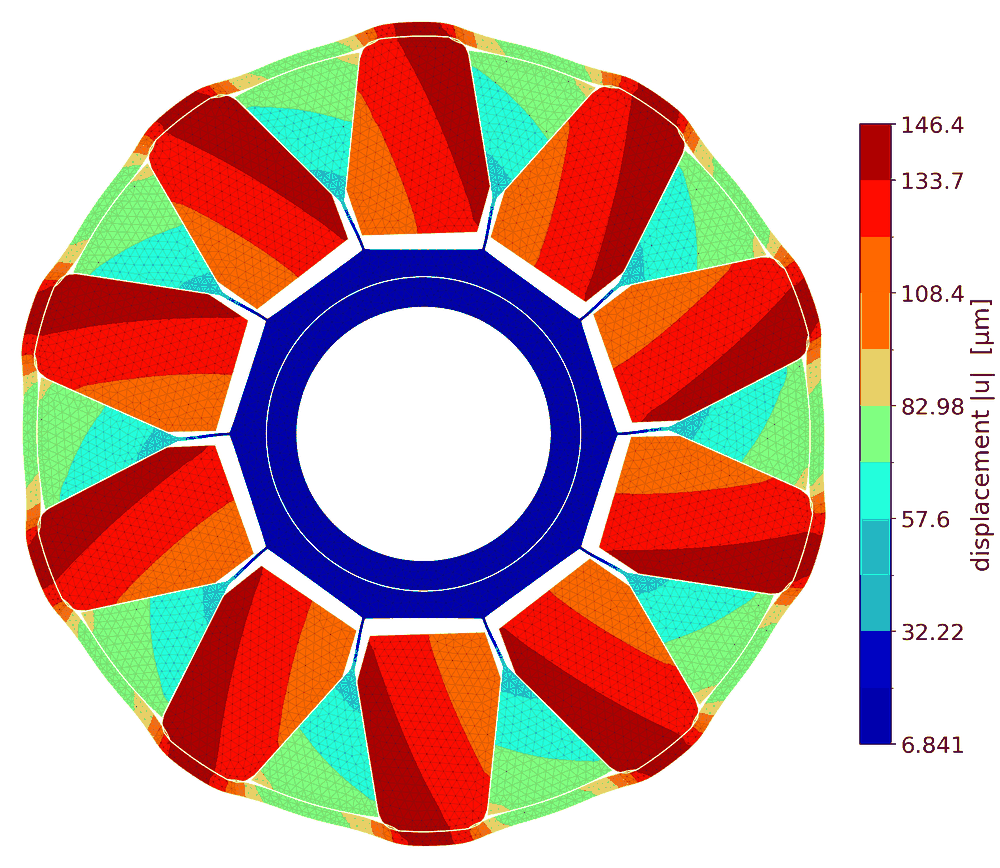
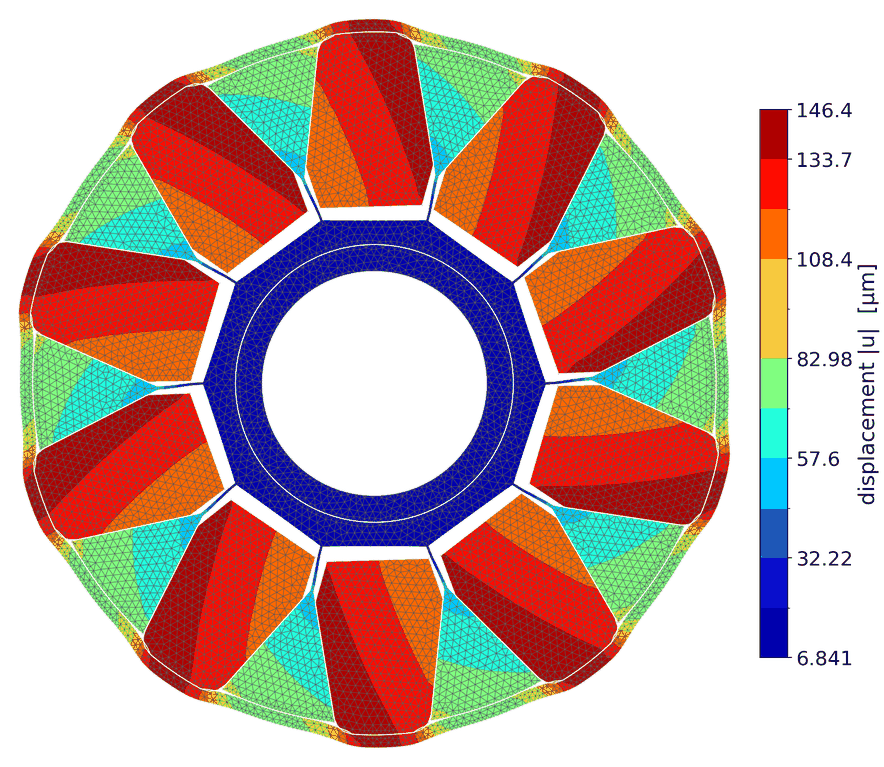
web: the landing mesh is a mesh at 1x, not a texture
The mesh went on the cards yesterday and on the live 1440-wide page it read as
a faint grey wash.  Two reasons, both about the size the picture is actually
looked at:

  * the files were 1000 px for a 442 px card, a 2.26x reduction at 1x DPR, so
    a 0.22 pt line landed on 0.44 of a pixel and averaged away.  They are 884 px
    now — exactly 2x the card — so at 1x the browser folds two source pixels
    into one and a 2 px line stays a 1 px line, while a 2x screen still gets its
    own pixels;
  * the line was near-black, and a jet field is dark at BOTH ends.  Dark blue
    around 0.4 T and dark red at the top both sit near luminance 30-40, which is
    what #1f1f1f is, so over those the ink did not draw a line, it disappeared
    into one.  It is #5a5a5a now (~90): far enough from the dark ends to be seen
    and far enough from cyan (~180) and yellow (~230) to stay a line.  One tone
    for all three — the alternative is a tone per picture and no rule.

Weight 0.5 pt at alpha 0.85, sized against one test: after the browser scales
the picture to its 442 px card at 1x, every triangle edge is still a distinct
line.  0.9 pt was legible too and started eating the field; 0.22 was the wash.

`--preview DIR` writes that 442 px view, because it is the only size at which
"mesh or smudge" can be answered, and answering it from a 1000 px render is how
this was got wrong the first time.

249 / 247 / 241 KB — palette traded, never the line: still inside the 255 KB
[…]

diff --git a/scripts/landing_images.py b/scripts/landing_images.py
@@ -52,22 +52,25 @@ solved mesh.  At the size a REPORT places a figure, its hairline (0.12 pt,
 alpha 0.35, #2b2b2b) reads as texture over the field; at ~442 px on a card it
 disappears, which is why the first live cards looked like flat colour.
 
-So the weight of that ONE call is lifted for these three pictures, and only for
-them: :func:`mesh_weight` wraps `Axes.triplot` for the duration of a build and
-substitutes :data:`MESH_LW` / :data:`MESH_ALPHA` into it.  Nothing in report.py
-is touched and nothing outside this process changes — the report still prints
-its own hairline.  The thermal map gets the lighter alpha of the two
-(:data:`MESH_ALPHA_THERMAL`): most of it is dark red, and the weight that reads
-as texture over a pale field reads as ink over that one.  `--no-mesh` draws the
-fields bare, which is how the two styles get compared.
+So that ONE call is redrawn for these three pictures, and only for them:
+:func:`mesh_weight` wraps `Axes.triplot` for the duration of a build and
+substitutes :data:`MESH_LW` / :data:`MESH_ALPHA` / :data:`MESH_COLOR` into it.
+Nothing in report.py is touched and nothing outside this process changes — the
+report still prints its own hairline.  The three are sized against ONE test:
+after the browser has scaled the picture down to its 442 px card at 1x DPR,
+every triangle edge must still be a distinct line and not a grey wash.
+`--no-mesh` draws the fields bare, and `--preview DIR` writes that 442 px view
+— the only size at which "mesh or smudge" can be answered by eye.
 
 Edges do not double on the seam: the replication merges coincident nodes, and
 `triplot` draws a triangulation's UNIQUE edge list, so the joint carries one
 line like every other interior edge.
 
-SIZE.  Each card places a picture at ~442 CSS px and the disc inside the
-1.25:1 box is height-limited to ~354 px, so 1000 device px covers a 2x screen
-with room to spare.  The palette steps down until the file clears
+SIZE.  Each card places a picture at ~442 CSS px, so the file is rendered at
+exactly twice that (:data:`CARD_PX`): a 2x screen gets its own pixels, and at
+1x the browser folds two source pixels into one, which keeps a 2 px mesh line a
+1 px mesh line.  A round 1000 px was a 2.26x reduction and put the line on 0.44
+of a pixel.  The palette steps down until the file clears
 :data:`TARGET_BYTES`; the hard ceiling is :data:`MAX_BYTES` (300 KB, the
 landing's budget, enforced by the test beside the component) and the target is
 lower on purpose, so a later tweak cannot quietly blow it.  All three are
@@ -81,6 +84,7 @@ calls none::
     python scripts/landing_images.py            # rewrite web/public/landing/*.png
     python scripts/landing_images.py --check     # redraw elsewhere and compare
     python scripts/landing_images.py --no-mesh   # the fields with no mesh over them
+    python scripts/landing_images.py --preview DIR   # also save the 442 px card view
 
 ``--check`` writes nothing into the repo: it redraws into a temporary directory
 and reports, per file, whether the bytes still match what is committed.  A
@@ -114,19 +118,32 @@ OUT_DIR = ROOT / "web" / "public" / "landing"
 MAX_BYTES = 300 * 1024
 #: What the palette search actually aims at — see SIZE above.
 TARGET_BYTES = 255 * 1024
-#: Device pixels across, for a picture placed at ~442 CSS px on a 2x screen.
-CARD_PX = 1000
+#: Device pixels across: EXACTLY twice the ~442 px the card places the picture
+#: at.  A round 1000 was a 2.26x reduction at 1x DPR and a mesh line landed on
+#: 0.44 of a pixel; at 2x the browser folds two source pixels into one, so a
+#: 2 px line stays a 1 px line and a 2x screen still gets its own pixels.
+CARD_PX = 884
+#: What the card places the picture at, and therefore what `--preview` renders
+#: for the eye that has to judge the mesh.
+PREVIEW_PX = 442
 
-#: The mesh over the field, in points and alpha — see THE MESH above.  The
-#: report's own values are 0.12 / 0.35, which is right for a figure placed on a
-#: page and invisible on a 442 px card.
-MESH_LW = 0.22
-MESH_ALPHA = 0.55
-#: The temperature map gets its own value.  Its stator is pale and its rotor is
-#: one flat dark red, so the two halves of the picture want opposite things: at
-#: the other maps' 0.55 the stator reads busy, and at 0.38 the mesh vanishes
-#: inside the rotor altogether.  0.50 is where it is legible in both.
-MESH_ALPHA_THERMAL = 0.50
+#: The mesh over the field — weight in points, alpha, colour.  The report's own
+#: values are 0.12 pt / 0.35 / #2b2b2b, which is right for a figure placed on a
+#: page.  These are sized so that every triangle edge is still a DISTINCT line
+#: after the browser has scaled the picture down to its 442 px card at 1x DPR:
+#: at 0.22 the mesh survived that reduction only as a faint texture (live,
+#: 2026-09-16), and the user asked for a mesh, not a texture.  Measured by eye
+#: on the 442 px downscales `--preview` writes.
+MESH_LW = 0.5
+MESH_ALPHA = 0.85
+MESH_COLOR = "#5a5a5a"
+#: WHY MID-GREY AND NOT NEAR-BLACK.  A jet field is dark at BOTH ends — dark
+#: blue around 0.4 T and dark red at the top both sit near luminance 30-40 —
+#: and near-black ink has that same luminance, so it does not draw a line
+#: there, it disappears into it.  #5a5a5a is ~90: far enough from the dark ends
+#: to be seen and far enough from the pale middle (cyan ~180, yellow ~230) to
+#: stay a line.  One tone for all three, because the alternative is a tone per
+#: picture and no rule.
 
 DIE, CFG, DUTY = "CIANO10 200 opt", "L155 motor", "rated 1x9 mm"
 #: The width the figures are PLACED at, in cm.  `report.map_font_pt` sizes the
@@ -138,11 +155,14 @@ PLACE_CM = 12.0
 # ── the mesh ────────────────────────────────────────────────────────────────
 
 @contextmanager
-def mesh_weight(lw: float, alpha: float, on: bool = True) -> Iterator[None]:
+def mesh_weight(lw: float, alpha: float, color: str = MESH_COLOR,
+                on: bool = True) -> Iterator[None]:
     """Draw `report._map_png`'s mesh at THIS weight, for as long as the block.
 
     That one call is ``ax.triplot(tri, color="#2b2b2b", linewidth=0.12,
-    alpha=0.35)``, and it is the only `triplot` in the builders this script
+    alpha=0.35)`` — all three of which are substituted here, because at card
+    size the weight, the opacity and the tone all have to carry.  It is the
+    only `triplot` in the builders this script
     uses — the mode gallery draws its outlines with a `LineCollection` and the
     flux lines come from `tricontour`, so wrapping `triplot` reaches the mesh
     and nothing else.  `on=False` suppresses the mesh entirely (``--no-mesh``).
@@ -158,7 +178,7 @@ def mesh_weight(lw: float, alpha: float, on: bool = True) -> Iterator[None]:
         if "linewidth" in kw and "alpha" in kw:
             if not on:
                 return []
-            kw["linewidth"], kw["alpha"] = lw, alpha
+            kw["linewidth"], kw["alpha"], kw["color"] = lw, alpha, color
         return original(self, *a, **kw)
 
     matplotlib.axes.Axes.triplot = patched          # type: ignore[assignment]
@@ -291,7 +311,7 @@ def build(mesh: bool = True) -> Dict[str, bytes]:
     P, T, node, tri = to_full(th["vertices"], th["triangles"],
                               {"t": th["temperature_per_node"]},
                               {"dom": th["domain_per_tri"]})
-    with mesh_weight(MESH_LW, MESH_ALPHA_THERMAL, on=mesh):
+    with mesh_weight(MESH_LW, MESH_ALPHA, on=mesh):
         png = report._thermal_map({"field": {
             "vertices": P, "triangles": T,
             "temperature_per_node": node["t"], "domain_per_tri": tri["dom"],
@@ -316,9 +336,17 @@ def build(mesh: bool = True) -> Dict[str, bytes]:
 
 
 def main(argv: List[str]) -> int:
-    check = "--check" in argv[1:]
-    mesh = "--no-mesh" not in argv[1:]
-    unknown = [a for a in argv[1:] if a not in ("--check", "--no-mesh")]
+    args = list(argv[1:])
+    check = "--check" in args
+    mesh = "--no-mesh" not in args
+    preview: Optional[Path] = None
+    if "--preview" in args:
+        i = args.index("--preview")
+        if i + 1 >= len(args):
+            raise SystemExit("--preview needs a directory")
+        preview = Path(args[i + 1])
+        del args[i:i + 2]
+    unknown = [a for a in args if a not in ("--check", "--no-mesh")]
     if unknown:
         raise SystemExit("unknown argument(s): %s" % " ".join(unknown))
 
@@ -343,6 +371,15 @@ def main(argv: List[str]) -> int:
             name, len(data) / 1024,
             "unchanged" if match else ("DIFFERS from the committed file"
                                        if old else "new")))
+        if preview is not None:
+            # WHAT THE EYE HAS TO JUDGE: the card's own 442 px at 1x DPR, which
+            # is where a mesh line either is a line or is a grey smudge.
+            preview.mkdir(parents=True, exist_ok=True)
+            im = Image.open(io.BytesIO(data)).convert("RGB")
+            im = im.resize((PREVIEW_PX,
+                            round(im.height * PREVIEW_PX / im.width)),
+                           Image.LANCZOS)
+            im.save(preview / ("landing_preview_442_%s" % name))
     if dest is not OUT_DIR:
         print("\nredrawn into %s (nothing in the repo was touched)" % dest)
         return 0 if (same or not mesh) else 1
